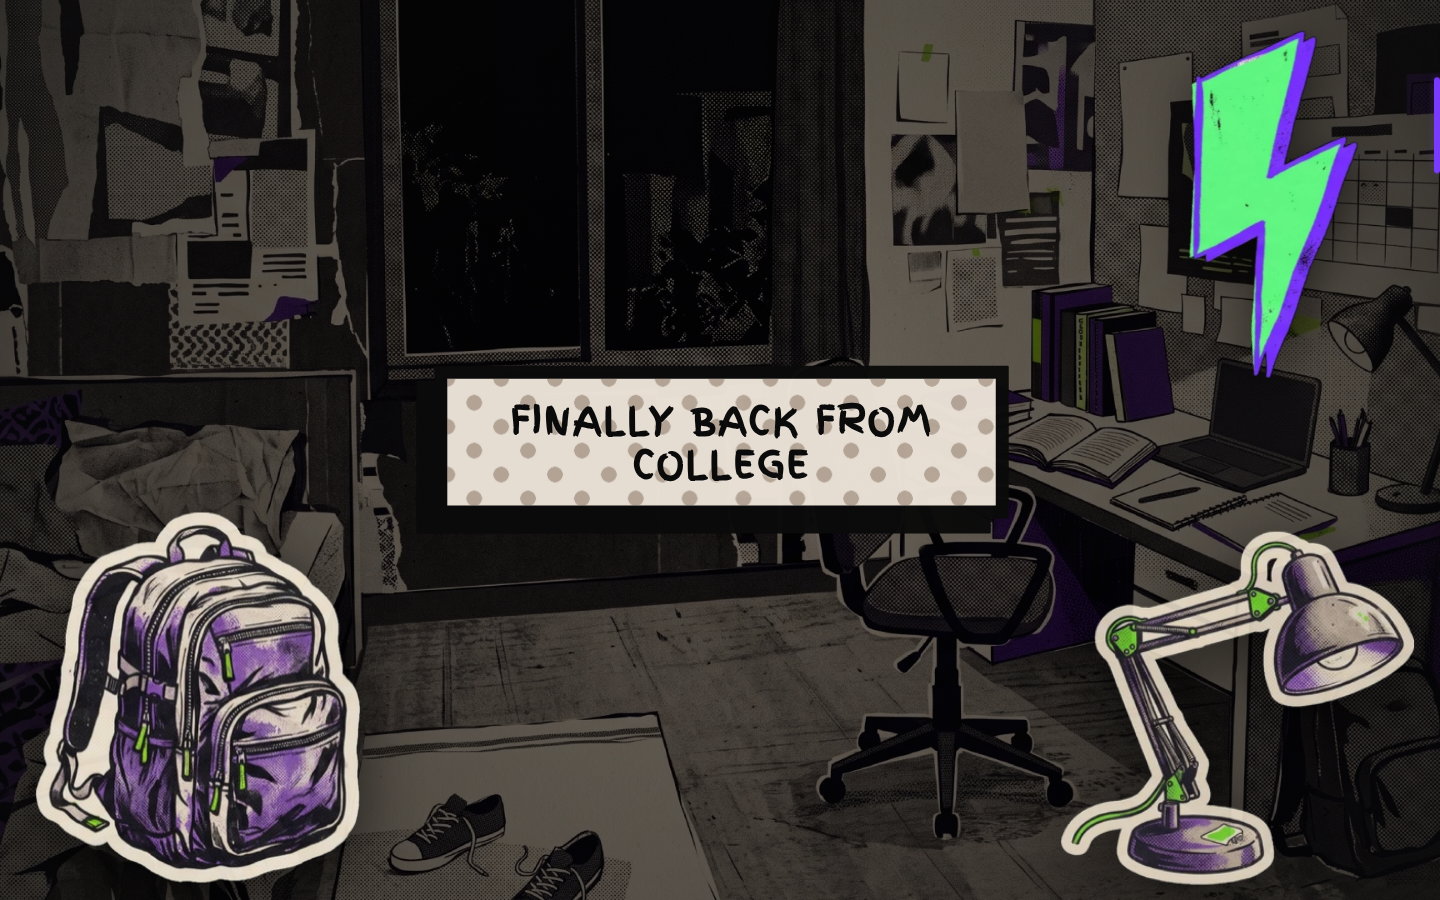
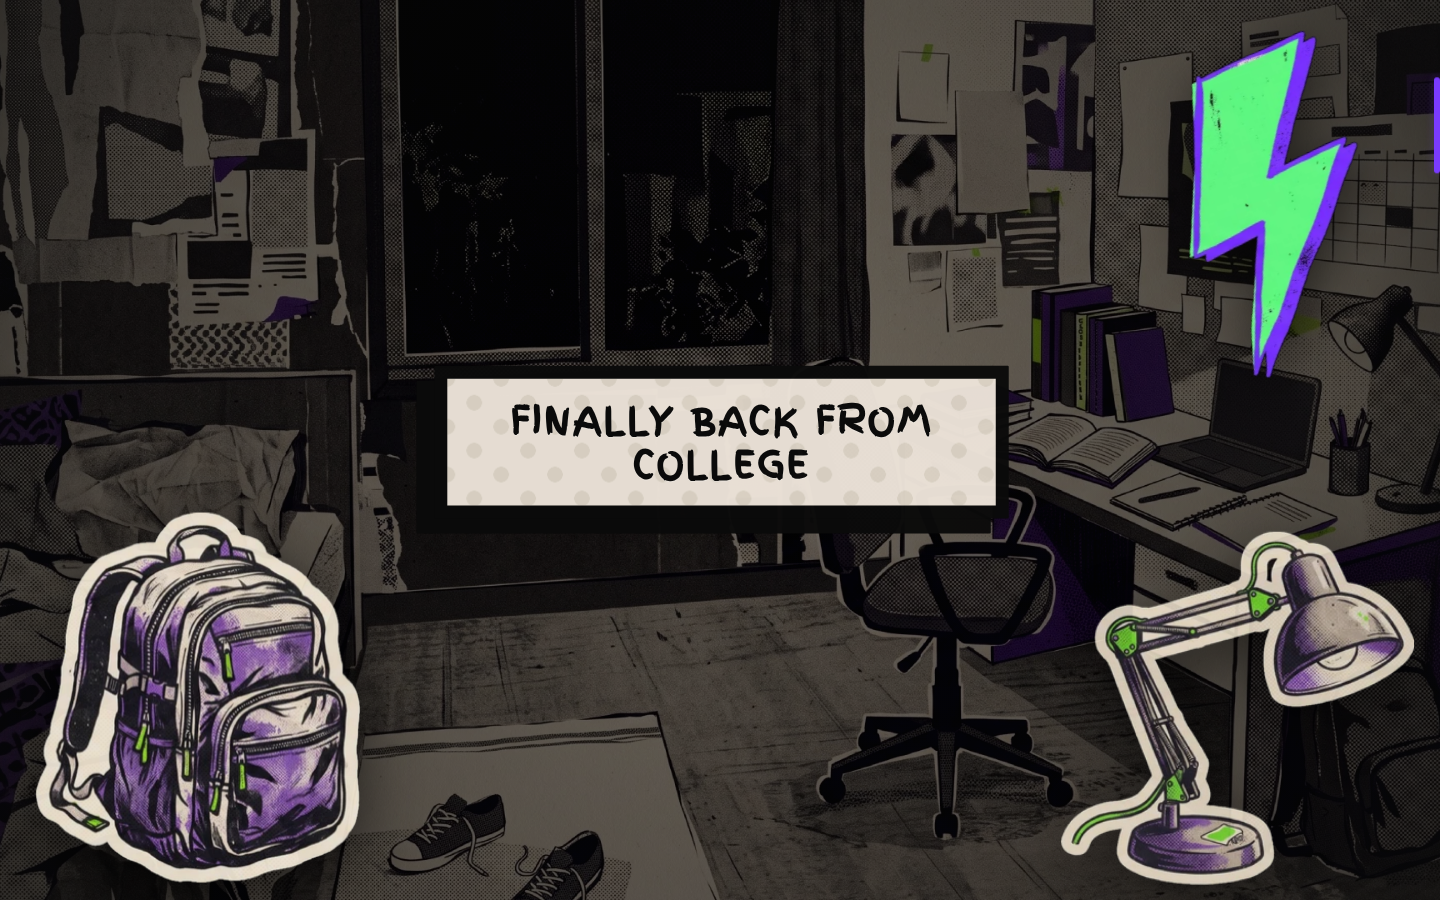
style(comic): soften halftone dot color for cream and white variant to improve text contrast

Changed region(s): [[0.3125, 0.4356, 0.6875, 0.56]]

diff --git a/src/components/comic/ComicAction.tsx b/src/components/comic/ComicAction.tsx
@@ -2,7 +2,7 @@ import React from 'react';
 import './ComicAction.css';
 
 export type ComicActionSize = 'small' | 'medium' | 'large';
-export type ComicActionVariant = 'yellow' | 'purple' | 'green' | 'cream';
+export type ComicActionVariant = 'yellow' | 'purple' | 'green' | 'cream' | 'white';
 
 export interface ComicActionVariantColors {
   backgroundColor: string;
@@ -40,7 +40,14 @@ export const COMIC_ACTION_VARIANTS: Record<ComicActionVariant, ComicActionVarian
     textColor: '#0B0B0B',
     borderColor: '#0B0B0B',
     shadowColor: '#0B0B0B',
-    patternColor: '#B8A99A',
+    patternColor: '#DDD4C7',
+  },
+  white: {
+    backgroundColor: '#EDE4D9',
+    textColor: '#0B0B0B',
+    borderColor: '#0B0B0B',
+    shadowColor: '#0B0B0B',
+    patternColor: '#DDD4C7',
   },
 };
 

diff --git a/src/pages/ComicComponentsPlayground.tsx b/src/pages/ComicComponentsPlayground.tsx
@@ -401,7 +401,8 @@ export const ComicComponentsPlayground: React.FC = () => {
                     <option value="yellow">Yellow (Default Reference)</option>
                     <option value="purple">Purple (Electric)</option>
                     <option value="green">Green (Acid Punch)</option>
-                    <option value="cream">Cream (Vintage)</option>
+                    <option value="cream">Cream / White (Subtle Dots)</option>
+                    <option value="white">White</option>
                   </select>
                 </div>
 
